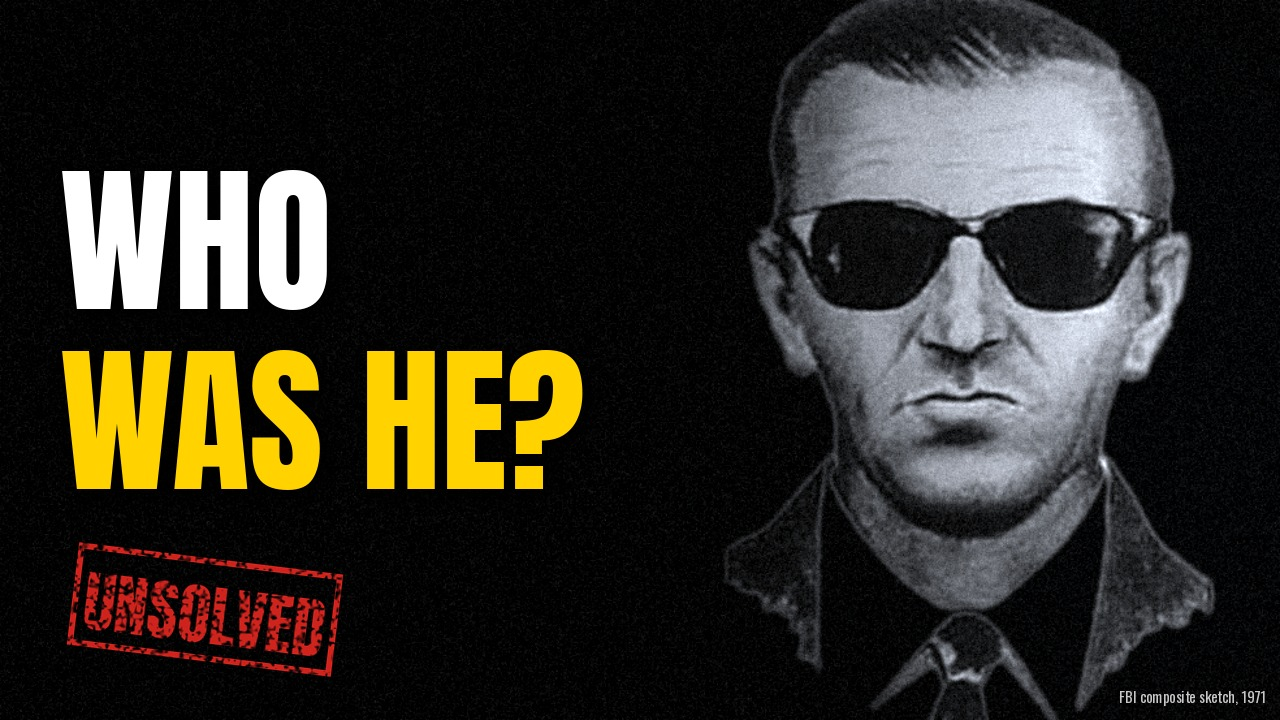
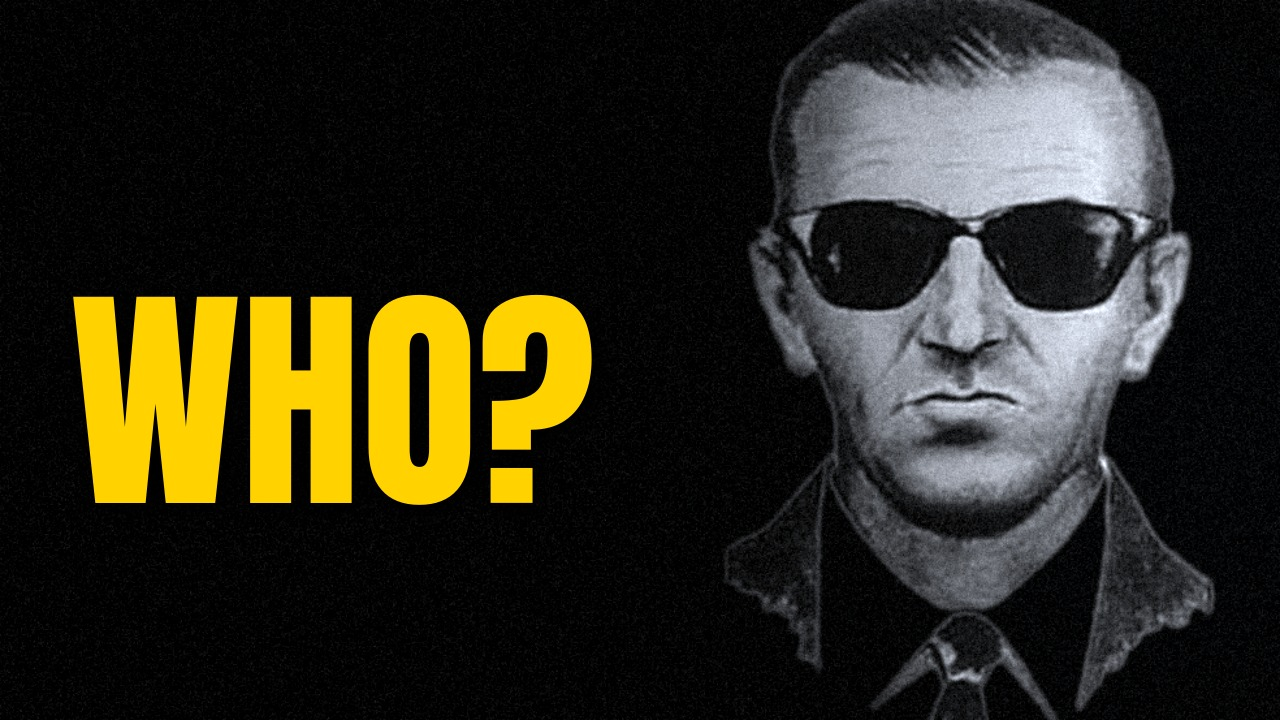
Thumbnails: cut on-screen text to one word each
Claude-Session: https://claude.ai/code/session_011rkRpiLaNDvJQPE3DDeQtX

Changed region(s): [[0.0312, 0.2139, 0.4688, 0.7028], [0.0312, 0.7333, 0.2812, 0.9472], [0.875, 0.9472, 1.0, 0.9778]]

diff --git a/previews/db_cooper/make_thumbs.py b/previews/db_cooper/make_thumbs.py
@@ -220,9 +220,7 @@ def t1():
     a = vignette(a, 0.55, cx=0.6)
     a = grain(a, 0.028)
     im = img(a)
-    text(im, (56, 360), "HE NEVER", 120)
-    text(im, (56, 505), "LANDED.", 120, fill=YEL)
-    credit(im, "727 N467US, 1972: Clint Groves, CC BY-SA 4.0 · Lake Merwin, WA: Ryan Harvey, CC BY-SA 2.0")
+    text(im, (60, 440), "GONE.", 210, fill=YEL)
     return im
 
 
@@ -247,11 +245,7 @@ def t2():
     a = vignette(a, 0.5, cx=0.72)
     a = grain(a, 0.04, size=1.3)
     im = img(a)
-    text(im, (60, 120), "WHO", 160)
-    text(im, (60, 300), "WAS HE?", 160, fill=YEL)
-    C, A = stamp("UNSOLVED", 66, angle=-7)
-    im.paste(C, (60, 535), A)
-    credit(im, "FBI composite sketch, 1971")
+    text(im, (70, 220), "WHO?", 240, fill=YEL)
     return im
 
 
@@ -272,10 +266,7 @@ def t3():
     a = spot(a, 380, 400, 720, 560, floor=0.10)
     a = grain(a, 0.03)
     im = img(a)
-    text(im, (W - 46, 40), "$5,800", 170, fill=YEL, anchor="ra")
-    text(im, (W - 46, 245), "FOUND.", 130, anchor="ra")
-    text(im, (W - 46, 430), "HE WASN'T.", 96, anchor="ra")
-    credit(im, "Ransom bills found on the Columbia River, 1980 · FBI photo")
+    text(im, (W - 50, 230), "$5,800", 210, fill=YEL, anchor="ra")
     return im
 
 
@@ -299,8 +290,7 @@ def t4():
     a = vignette(a, 0.5)
     a = grain(a, 0.035, size=1.4)
     im = img(a)
-    text(im, (W - 50, 30), "THE BACK", 112, anchor="ra")
-    text(im, (W - 50, 160), "DOOR.", 112, fill=YEL, anchor="ra")
+    text(im, (W - 50, 40), "JUMPED.", 150, fill=YEL, anchor="ra")
     d = ImageDraw.Draw(im)
     tip = (sx + 40, sy - 60)
     tail = (tip[0] + 250, tip[1] - 150)
@@ -308,7 +298,6 @@ def t4():
     v = np.array(tip) - np.array(tail); v = v / np.linalg.norm(v); n = np.array([-v[1], v[0]])
     t = np.array(tip)
     d.polygon([tuple(t), tuple(t - v * 60 + n * 30), tuple(t - v * 60 - n * 30)], fill=YEL)
-    credit(im, "Northwest 727 aft airstair, 1975 · photo: R. W. Rynerson, CC BY 2.0")
     return im
 
 
@@ -335,9 +324,7 @@ def t5():
     im = img(a)
     C, A = stamp("UNSOLVED", 96, angle=-14)
     im.paste(C, (700, 420), A)
-    text(im, (60, 110), "55 YEARS.", 140)
-    text(im, (60, 290), "NO NAME.", 140, fill=YEL)
-    credit(im, "FBI wanted bulletin, 1971")
+    text(im, (60, 250), "55 YEARS", 170, fill=YEL)
     return im
 
 

diff --git a/previews/db_cooper/CREDITS.md b/previews/db_cooper/CREDITS.md
@@ -4,10 +4,10 @@
 
 | # | Текст | Кадр | Лицензия |
 |---|---|---|---|
-| 1 | HE NEVER LANDED. | Boeing 727 N467US (тот самый самолёт), 1972 — Clint Groves; озеро Мервин, WA — Ryan Harvey | CC BY-SA 4.0 / CC BY-SA 2.0 |
-| 2 | WHO WAS HE? | Фоторобот ФБР, 1971 | Public domain |
-| 3 | $5,800 FOUND. HE WASN'T. | Купюры выкупа с р. Колумбия, 1980 — фото ФБР | Public domain |
-| 4 | THE BACK DOOR. | Задний трап Northwest 727, 1975 — R. W. Rynerson | CC BY 2.0 |
-| 5 | 55 YEARS. NO NAME. | Ориентировка ФБР, 1971 | Public domain |
+| 1 | GONE. | Boeing 727 N467US (тот самый самолёт), 1972 — Clint Groves; озеро Мервин, WA — Ryan Harvey | CC BY-SA 4.0 / CC BY-SA 2.0 |
+| 2 | WHO? | Фоторобот ФБР, 1971 | Public domain |
+| 3 | $5,800 | Купюры выкупа с р. Колумбия, 1980 — фото ФБР | Public domain |
+| 4 | JUMPED. + стрелка | Задний трап Northwest 727, 1975 — R. W. Rynerson | CC BY 2.0 |
+| 5 | 55 YEARS + штамп UNSOLVED | Ориентировка ФБР, 1971 | Public domain |
 
-Для №1 и №4 в описание YouTube добавить строку автора (уже есть мелко в кадре).
+Подписей авторов в кадре нет — для №1 и №4 обязательно указать автора в описании YouTube.
